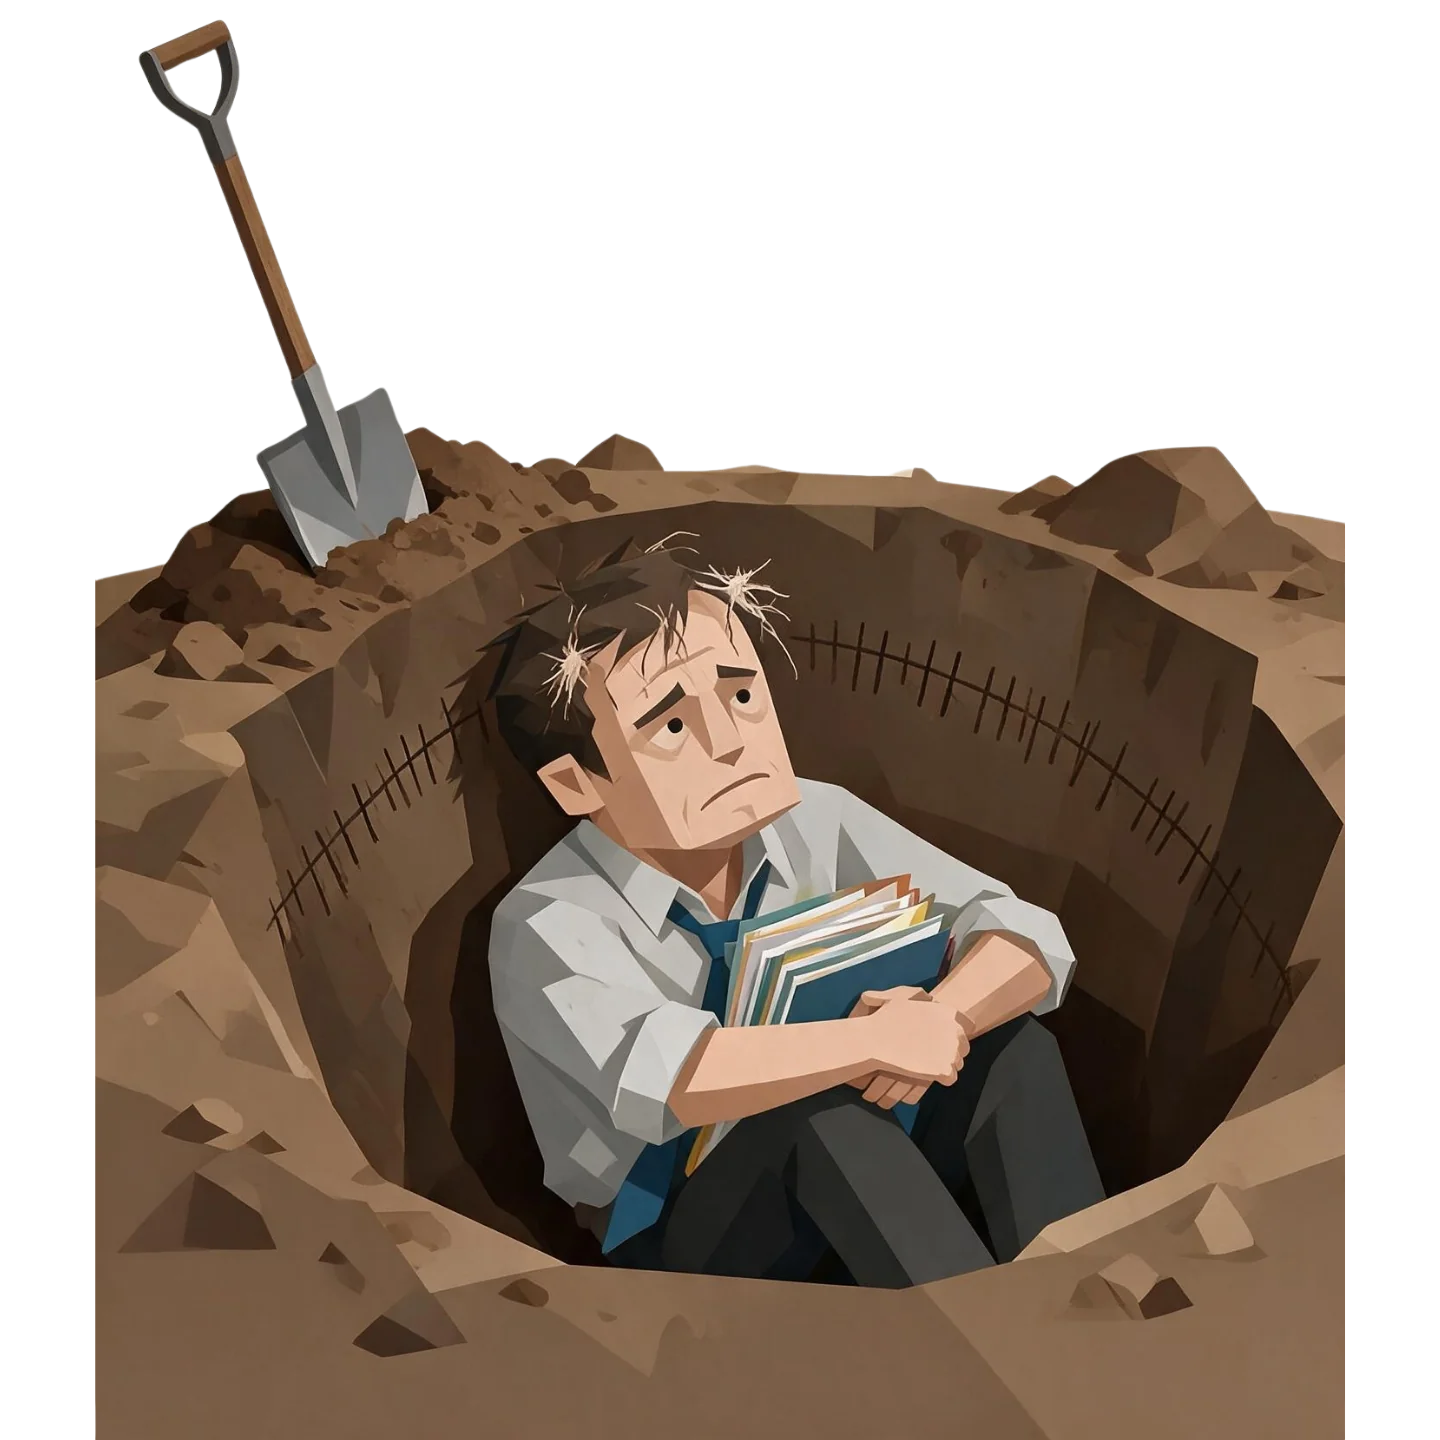
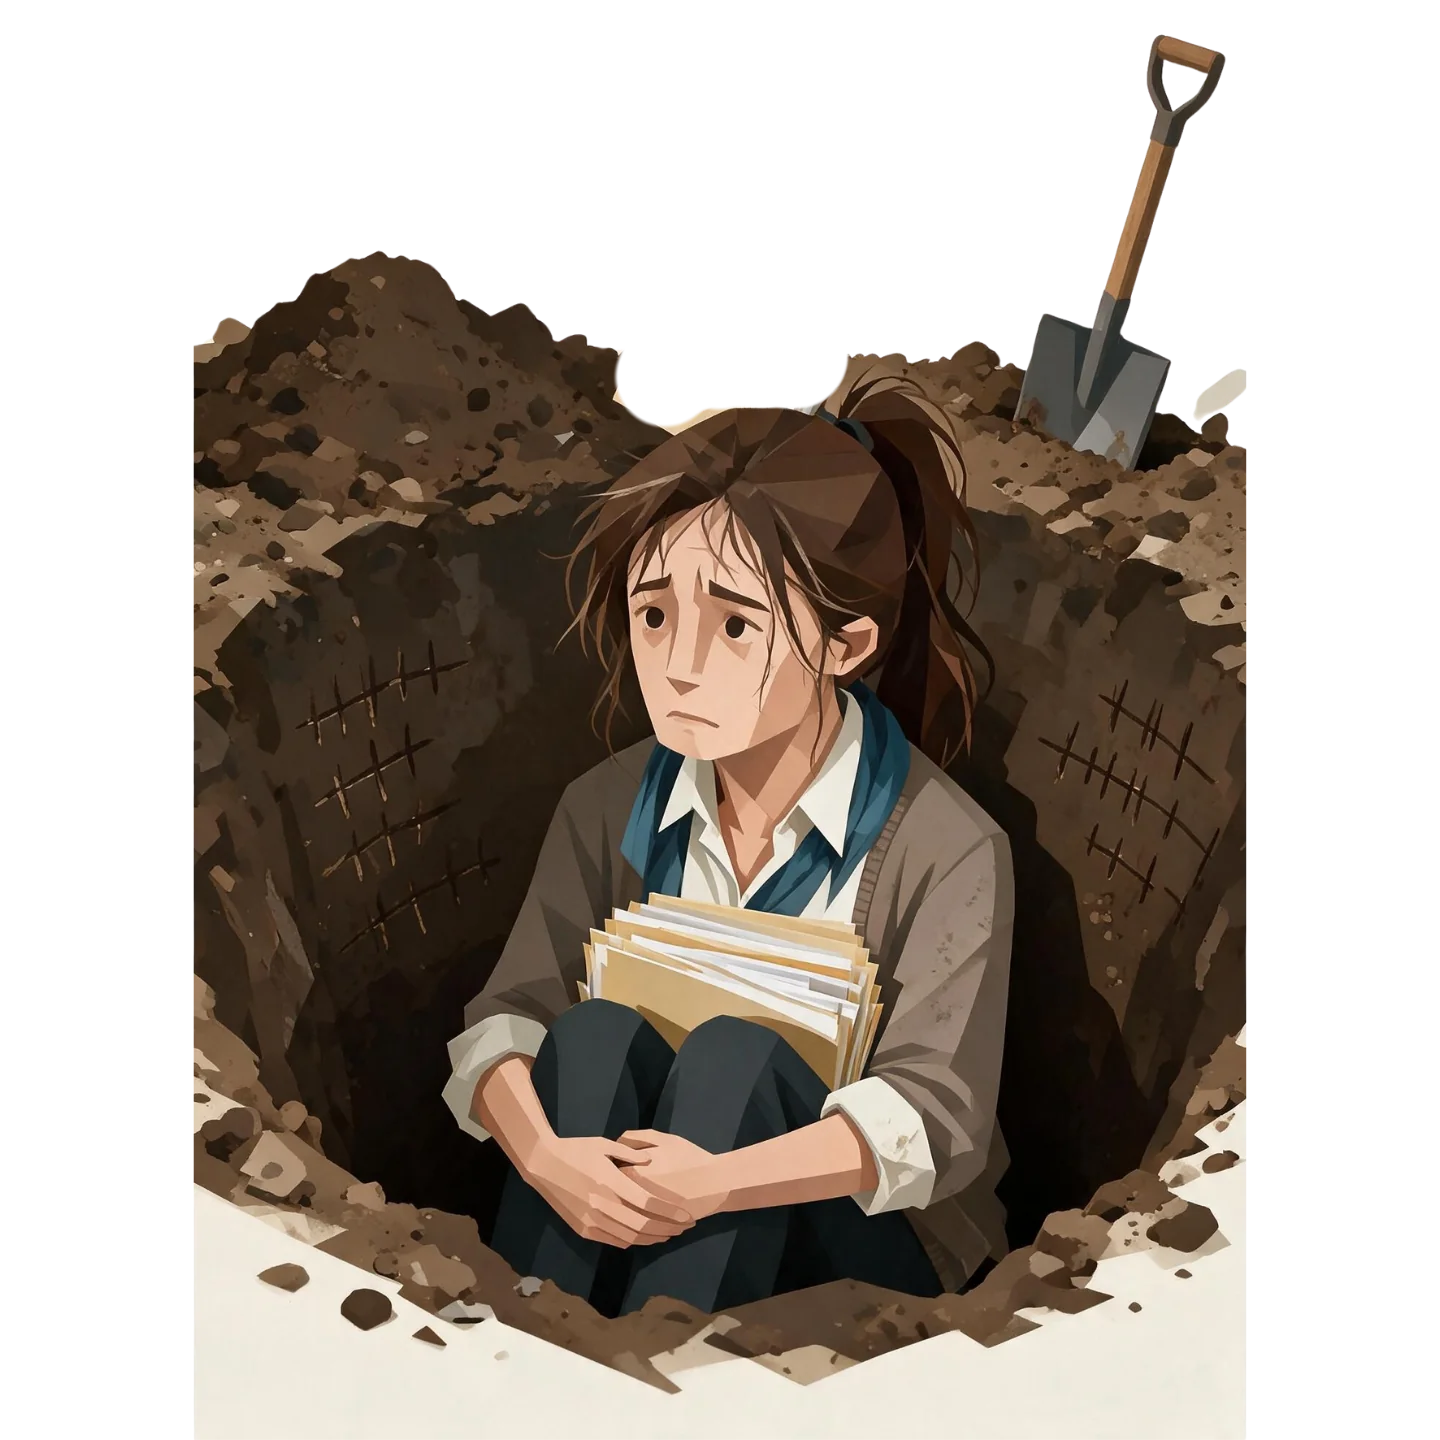
Add files via upload

diff --git a/index.html b/index.html
@@ -123,13 +123,11 @@
     overflow: hidden; display: flex; align-items: center;
   }
   #ticker .track {
-    display: inline-flex; white-space: nowrap; animation: tickerScroll 22s linear infinite;
+    display: inline-flex; white-space: nowrap; animation: tickerScroll 36s linear infinite;
     font-size: 13px; color: var(--text-secondary); letter-spacing: 1px;
   }
   #ticker .track span { margin-right: 40px; }
-  #ticker .up { color: #4ade80; }
-  #ticker .down { color: #f87171; }
-  #ticker .joke { color: var(--accent-primary); font-weight: 700; }
+  #ticker .marquee-sep { color: var(--accent-primary); } /* ✦ 分隔符品牌色 */
   @keyframes tickerScroll { from { transform: translateX(0); } to { transform: translateX(-50%); } }
 
   /* ---- 答题 ---- */
@@ -346,6 +344,8 @@
   .hint { color: var(--text-disabled); font-size: 12px; text-align: center; margin-bottom: 20px; }
 
   .note { text-align: center; color: var(--text-secondary); font-size: 13px; margin-top: 24px; line-height: 1.8; }
+  .egg-img { width: min(260px, 60vw); height: auto; margin: 0 auto 20px; display: block;
+    border-radius: 16px; animation: charIn .55s ease-out both; }
   .egg-title { font-size: 40px; font-weight: 900; text-align: center; margin: 30px 0 10px; color: var(--accent-primary); }
 
   #toast {
@@ -3555,19 +3555,20 @@ function initHome() {
 }
 
 function initTicker() {
-  var items = [
-    { t: '^HSI +0.42%', c: 'up' },
-    { t: 'BTC -1.8%', c: 'down' },
-    { t: 'NVDA +2.15%', c: 'up' },
-    { t: '你的钱包 -99%', c: 'joke' },
-    { t: 'NeuralFin ∞', c: 'joke' },
-    { t: 'TSLA +0.88%', c: 'up' },
-    { t: 'GME +666%', c: 'joke' }
+  /* 品牌广告跑马灯:静态文案,内容A+内容A 首尾相连实现无缝循环 */
+  var marqueeItems = [
+    '刚测完你的金融人格？无论你是稳健派还是冒险派，真正的投资进阶，从看懂市场开始',
+    'NeuralFin——AI 原生社交交易平台，为刷屏一代而生',
+    '刷屏、学习、讨论、行动、复利——把每天滑手机的碎片时间，变成你的专属金融学习闭环',
+    '关注专业人士、机构与博主，社区驱动学习，AI 把海量内容压缩成可行动的洞察',
+    '从发现到执行，同一个界面完成，学到的当下就能行动',
+    '已接入香港证监会持牌机构德林证券，受监管交易，安心起步',
+    '你的测试结果只是起点，点击下方，开启你的投资复利之旅 🚀'
   ];
-  var html = items.concat(items).map(function(x) {
-    return '<span class="' + x.c + '">' + x.t + '</span>';
-  }).join('');
-  document.getElementById('ticker-track').innerHTML = html;
+  var marqueeText = '✦ ' + marqueeItems.join(' ✦ ') + ' ✦';
+  marqueeText = marqueeText.replace(/✦/g, '<span class="marquee-sep">✦</span>'); /* 分隔符品牌色 */
+  var box = document.getElementById('ticker-track');
+  box.innerHTML = '<span>' + marqueeText + '</span><span>' + marqueeText + '</span>';
 }
 
 /* ============ 答题 ============ */
@@ -3745,6 +3746,7 @@ function renderEgg(name, note, word) {
   show('page-result');
   document.getElementById('result-body').innerHTML =
     '<div class="egg-wrap">' +
+      '<img class="egg-img" loading="eager" alt="' + name + '" src="/' + (word === 'ATM' ? 'atm' : 'abcd') + '.webp" onerror="this.onerror=null;this.src=\'/' + (word === 'ATM' ? 'atm' : 'abcd') + '.png\';">' +
       '<div class="egg-title">隐藏人格「' + name + '」</div>' +
       '<div class="card"><p style="text-align:center;line-height:2;">' + note + '</p></div>' +
       '<div class="share-card-wrap">' +
